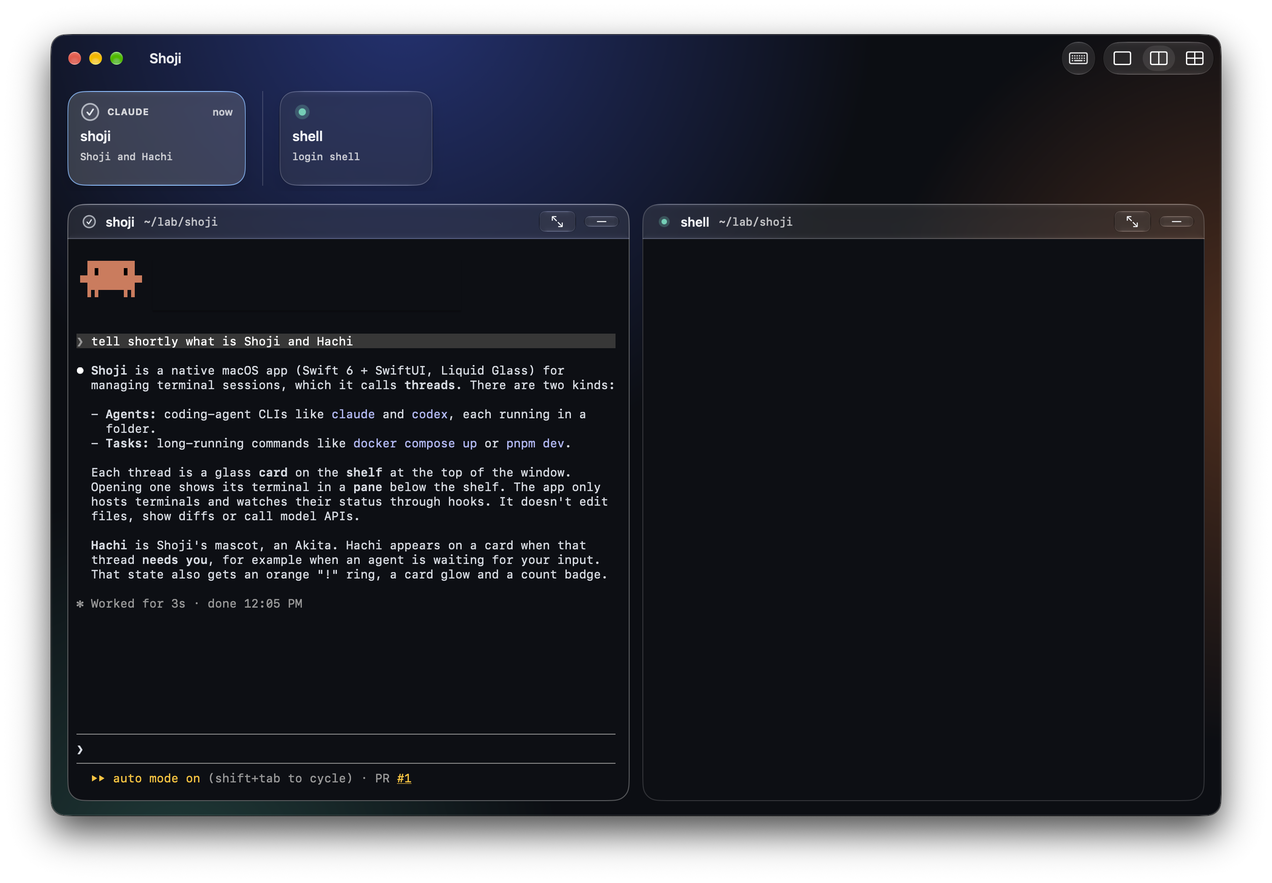
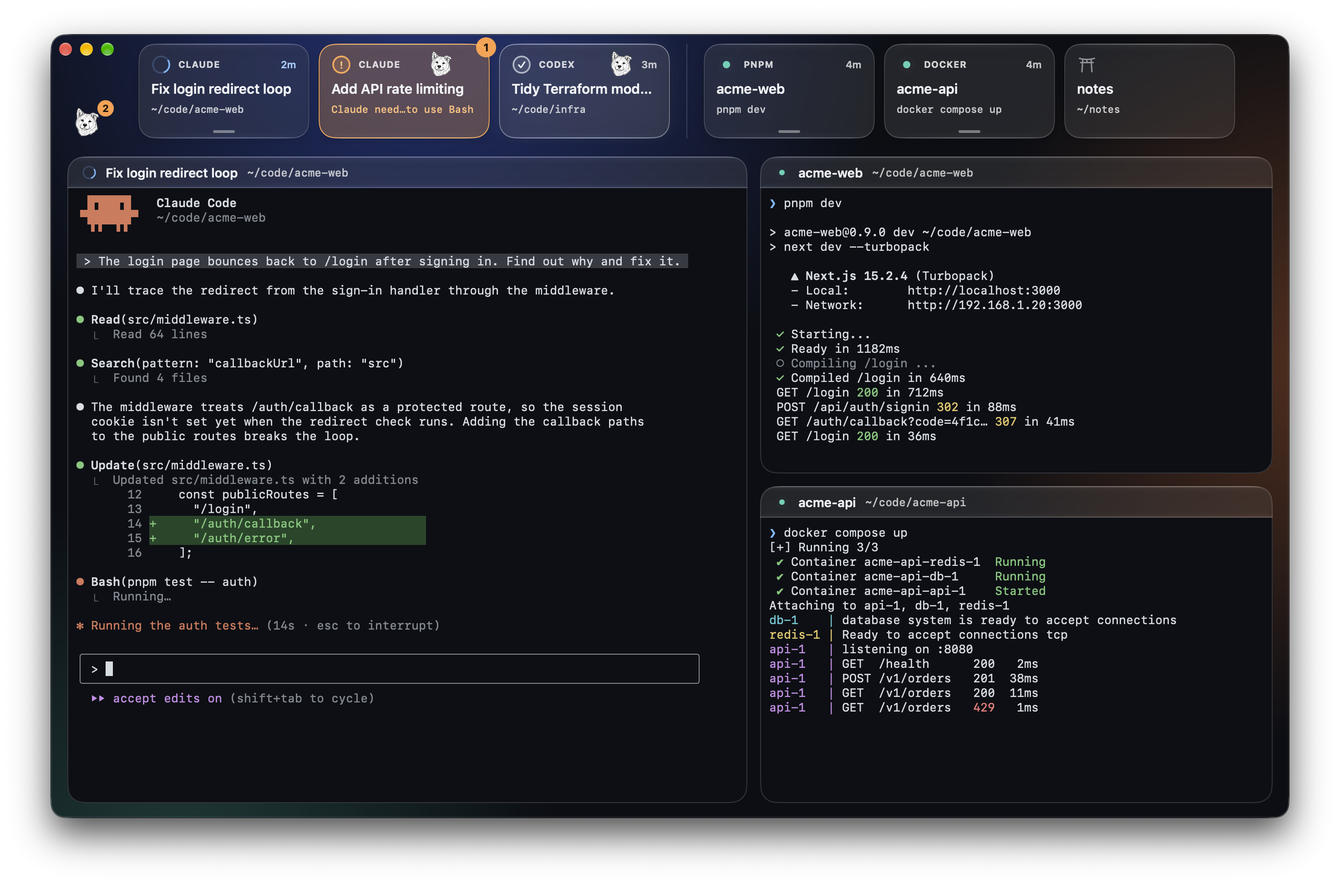
ready for v0.4

diff --git a/Sources/Shoji/Threads/ThreadStore.swift b/Sources/Shoji/Threads/ThreadStore.swift
@@ -77,6 +77,8 @@ final class ThreadStore {
             threads[index].command = line
             activity.agent = Agent(commandLine: line)
             activity.detail = nil
+            // A new program sets its own title; an earlier agent's topic must not stick to it.
+            activity.terminalTitle = nil
             // An agent waits at its own prompt until a hook says otherwise; anything else is running.
             activity.transition(to: activity.agent == nil ? .running : .idle, at: now)
         case .commandFinished(let code):
@@ -200,11 +202,13 @@ final class ThreadStore {
         arrange(groups)
     }
 
-    /// The user's name for the thread, else its folder's name. Unnamed threads in folders of the same name
-    /// are numbered oldest first ("shoji", "shoji 2"), so a `cd` into a subfolder and back changes nothing.
+    /// The user's name for the thread, else the running agent's topic, else its folder's name. Threads going by
+    /// folders of the same name are numbered oldest first ("shoji", "shoji 2"), so a `cd` into a subfolder and
+    /// back changes nothing. Cards, pane headers, menus and notifications all use it.
     func name(of thread: ShojiThread) -> String {
         if let title = thread.title { return title }
-        let twins = threads.filter { $0.title == nil && $0.folderName == thread.folderName }
+        if let topic = activities[thread.id]?.topic { return topic }
+        let twins = threads.filter { $0.title == nil && activities[$0.id]?.topic == nil && $0.folderName == thread.folderName }
         let place = twins.firstIndex { $0.id == thread.id } ?? 0
         return place == 0 ? thread.folderName : "\(thread.folderName) \(place + 1)"
     }
@@ -347,8 +351,10 @@ final class ThreadStore {
     // MARK: Panes
 
     /// Shows the thread in the pane you're in (or, with none, the one used longest ago that isn't waiting for
-    /// you), and focuses it. A thread already on screen just takes focus.
+    /// you), and focuses it. A thread already on screen just takes focus; one that's gone (a late notification
+    /// click) is ignored.
     func open(_ id: UUID) {
+        guard thread(id) != nil else { return }
         let panes = layout.panes
         let notWaiting = panes.filter { !wantsYou($0) }
         let replaced = panes.first { $0 == focusedThreadId }

diff --git a/Tests/ShojiTests/ShelfTests.swift b/Tests/ShojiTests/ShelfTests.swift
@@ -60,6 +60,32 @@ struct ShelfTests {
         #expect(store.thread(b).map(store.name) == "shoji")
     }
 
+    @Test func agentsGoByTheirTopicWhileTheyRun() {
+        let store = ThreadStore(threads: [])
+        let a = store.newThread()
+        let b = store.newThread()
+        let names = { [a, b].map { store.thread($0).map(store.name) } }
+
+        // A title that only names the agent or repeats its command isn't a topic.
+        store.send(.commandStarted("claude"), to: b)
+        store.send(.title("✳ Claude Code"), to: b)
+        store.send(.commandStarted("codex resume 019a"), to: a)
+        store.send(.title("codex resume 019a"), to: a)
+        #expect(names() == ["~", "~ 2"])
+
+        store.send(.title("✳ Fix login flow"), to: b)
+        #expect(names() == ["~", "Fix login flow"])
+        store.rename(b, to: "auth")
+        #expect(names() == ["~", "auth"])
+        store.rename(b, to: "")
+
+        // Gone with the agent; the next one starts without it.
+        store.send(.commandFinished(code: 0), to: b)
+        #expect(names() == ["~", "~ 2"])
+        store.send(.commandStarted("claude"), to: b)
+        #expect(names() == ["~", "~ 2"])
+    }
+
     @Test func renameTrimsAndEmptyFallsBackToTheFolder() {
         let store = makeStore()
         store.rename(second.id, to: "  web  ")

diff --git a/Sources/Shoji/UI/Shelf/ThreadCard.swift b/Sources/Shoji/UI/Shelf/ThreadCard.swift
@@ -89,6 +89,7 @@ struct ThreadCard: View {
         }
         .accessibilityElement(children: .ignore)
         .accessibilityLabel([name, tag?.capitalized, activity.status.label, finishedUnseen ? "not seen yet" : nil, subtitle, isOnScreen ? "in a pane" : nil].compactMap(\.self).joined(separator: ", "))
+        .help(thread.displayFolder)
     }
 
     private var tint: Color {
@@ -122,9 +123,10 @@ struct ThreadCard: View {
         return (String(executable) as NSString).lastPathComponent.uppercased()
     }
 
+    /// The folder, so you always see where a thread works; a plain command shows its command line instead (its
+    /// title is the folder already), and an agent that needs you shows its question.
     private var subtitle: String {
         if activity.status == .needsYou { return activity.detail ?? "Waiting for you" }
-        if activity.agent != nil, let title = activity.terminalTitle, !title.isEmpty { return title }
         if activity.agent == nil, let command = thread.command { return command }
         return thread.displayFolder
     }

diff --git a/Sources/Shoji/Threads/ThreadActivity.swift b/Sources/Shoji/Threads/ThreadActivity.swift
@@ -44,6 +44,13 @@ struct ThreadActivity: Equatable, Sendable {
     var terminalTitle: String?
     /// The agent CLI running in the shell right now.
     var agent: Agent?
+
+    /// What the agent says it's working on (its terminal title), unless the title only names the agent or
+    /// repeats its command line ("Claude Code", "codex resume …").
+    var topic: String? {
+        guard let agent, let title = terminalTitle, !title.isEmpty, !title.lowercased().hasPrefix(agent.rawValue) else { return nil }
+        return title
+    }
     /// The shell integration has reported in, so a thread without a command really sits at its prompt.
     var isIntegrated = false
     /// False once the shell itself has ended; Restart starts a new one.

diff --git a/Tests/ShojiTests/PaneTests.swift b/Tests/ShojiTests/PaneTests.swift
@@ -15,10 +15,12 @@ struct PaneTests {
         #expect(store.layout.panes == [ids[2], ids[1]])
         #expect(store.focusRequest == ids[2])
 
-        // Already on screen: only focus moves.
+        // Already on screen: only focus moves. A thread that's gone changes nothing.
         store.open(ids[1])
         #expect(store.layout.panes == [ids[2], ids[1]])
         #expect(store.focusRequest == ids[1])
+        store.open(UUID())
+        #expect(store.layout.panes == [ids[2], ids[1]])
     }
 
     @Test func withNoPaneFocusedOpenSparesPanesThatWantYou() {

diff --git a/Sources/Shoji/Terminal/TerminalSessions.swift b/Sources/Shoji/Terminal/TerminalSessions.swift
@@ -108,8 +108,8 @@ final class TerminalSessions {
         } else {
             popup.backend.terminate()
         }
-        // Back to the pane you were in.
-        if let id = store.focusedThreadId { store.open(id) }
+        // Back to the pane you were in, if it's still on screen.
+        if let id = store.focusedThreadId, store.layout.visibleThreadIds.contains(id) { store.open(id) }
     }
 
     private func handlePopup(_ event: TerminalEvent) {

diff --git a/PLAN.md b/PLAN.md
@@ -2,11 +2,10 @@
 
 ## Status
 
-- **Last session (pane-control, PR #3 → v0.3.0):** panes under the user's control (click goes to a thread, ⌥-click brings it to your pane, drop onto a pane, pins, layout switches that keep panes, no minimize); ⌃Tab recent-thread switcher; Codex status and resume through its own hooks; names numbered only when they'd collide; Torii idle glyph; unseen finishes get the Quiet finish halo, with Hachi behind a Threads menu toggle. Code review fixes in; tests regrouped by feature (60 in 10 suites); Release build checked locally (universal, 0.3.0).
-- **Shipped:** v0.3.0 released (DMG on GitHub) and installed in /Applications, 2026-10-29.
-- **Next up:** v0.4 on branch `reach-out` (Tasks › Next, in order): a separate Debug bundle id; quieter pane headers; split panes in any direction instead of fixed layouts; file drops onto terminals; open in Zed / VS Code with the options in the Threads menu; Dock badge, menu bar Hachi and macOS notifications for threads that want you while Shoji is in the background; the ⌘K popup terminal. Design has a handoff for the menu bar glyph and the popup frame. The branch also carries a CI fix: the PR test report names the PR's own commit, not GitHub's merge commit. The user's hands-on passes in Now continue alongside.
+- **Last session (reach-out → v0.4.0):** Debug is its own app (`fi.yan.shoji.debug`); split panes (a split tree: header Split menu, ⌘D / ⇧⌘D, cards dropped on a pane's edge, Close Pane, View › Arrange ⌥⌘1–4) replace the fixed layouts and pins; quiet pane headers (hover icons, double-click to maximize); files and text dropped on a terminal paste like Terminal, and cards have their own drag type; Open in Zed / VS Code (⇧⌘E) with options at the bottom of the Threads menu; the menu bar Hachi (design's seated dog), Dock badge and macOS notifications for threads that want you; the ⌘K quick terminal (closing keeps a running command as a thread); agents named by their topic with the folder underneath. Self-review fixes in; 69 tests in 10 suites; `MARKETING_VERSION` 0.4.0.
+- **Next up:** open the `reach-out` PR (merging publishes v0.4.0), install it, allow its notifications once (it asks as "Shoji"), and later check the permission survives an update; the hands-on list in Now; design's review of the new chrome. Then pick the next sprint from Later with the user.
 - **Blockers:** none
-- **Design (reach-out):** seated menu bar dog signed off; final sources/vectors and coding handoff ready. `docs/design/README.md` now indexes the accepted designs; obsolete frame/composites, colored reference copy, temporary metadata and empty folders removed. Native integration and pane/drop/popup review remain open; no user design choices are pending.
+- **Design (reach-out):** seated menu bar dog signed off and integrated by app; `docs/design/README.md` indexes the accepted designs. Design's review of the pane header, edge-drop preview, shelf corner and quick terminal remains open (app-to-design handoff).
 
 _Agents: update this section at the end of every session (what changed, what's next), tick or move tasks, and add new wishes to the right bucket._
 
@@ -61,6 +60,7 @@ _Agents: update this section at the end of every session (what changed, what's n
 - **A blank app icon in ⌘Tab or the Dock is a stale icon cache**, not a missing icon: macOS keys it on the bundle folder's date, which incremental builds don't touch. `touch build/Build/Products/Debug/Shoji.app` and `lsregister -f` it, then relaunch.
 - **`NSApp` is nil during `ShojiApp.init`.** Anything created there (like `Notifier`) must wait for `NSApplication.didFinishLaunchingNotification` before touching `NSApp` (Dock badge, `isActive`); touching it earlier traps at launch. The test host never builds the `Notifier`, so tests won't catch it: launch the Debug app after changing launch wiring.
 - **Notifications in the Debug build** ask for permission once as "Shoji Debug" (its own bundle id); test them with Shoji Debug in the background, since nothing is posted while it's the active app. A hook sent to `Shoji-Debug/hook.sock` with `scripts/shoji-hook` (`SHOJI_THREAD_ID`, `SHOJI_SOCKET`) raises needs-you without a real agent.
+- **Hook socket paths are capped at 104 characters** (Unix sockets). A support folder under a long path (a scratchpad, a fake home for a demo) silently leaves Shoji without hooks; keep demo homes short, e.g. `build/demo-home`.
 - **Only one Debug Shoji at a time.** A second instance (`open -n`) takes over `Shoji-Debug/hook.sock` and both write `threads.json`; quitting either removes the socket.
 - **Panes keep their identity across layouts.** `PaneGrid` places one `PaneView` per thread by frame (`PaneTiles`, computed from the split tree); it used to rebuild the split views on every layout switch, re-hosting every terminal, the likely cause of terminals going blank on a switch (confirm by hand). Keep it that way when splitting, closing panes or arranging.
 - **⌃Tab is read by a local key monitor** (`RecentSwitchKeys`), not the menu, because the switcher needs ⌃'s release (`flagsChanged`) and the keys must never reach the terminal. The menu items still show the shortcut, and a click switches at once. It stands down while a sheet or alert is up.
@@ -88,12 +88,12 @@ Chosen: **B · Card shelf + split** and **Hub view**, exported as standalone HTM
 private to Yan's account; agents can't open it, so the HTML files are what they read).
 
 **Threads screen (Option B)**
-- No toolbar row (user's call): the title bar is hidden and the shelf takes the top. Its left end holds the window buttons and Hachi's corner below them (empty; Hachi and a count while anything needs you, click opens it), its right end the layout switcher; new threads come from ⌘N and shortcuts from ⌘/ or the Help menu, so neither has a button. The window drags by its background.
+- No toolbar row (user's call): the title bar is hidden and the shelf takes the top. Its left end holds the window buttons and Hachi's corner below them (empty; Hachi and a count while anything needs you, click opens it); the shelf runs to the right edge (presets live in View › Arrange); new threads come from ⌘N and shortcuts from ⌘/ or the Help menu, so neither has a button. The window drags by its background.
 - Shelf of glass cards across the top in the user's order, split into groups by plain bars (no titles, no fixed meaning; user's call); scrolls sideways when cards overflow.
-- Card: status icon, a tag for what runs (CLAUDE / CODEX / the command's name, none at an idle prompt), name (the folder's name unless renamed; a number only when two unnamed threads would read the same, like "shoji 2", given to the newer thread, so a `cd` into a subfolder and back changes nothing), one-line status, command or folder, elapsed time.
+- Card: status icon, a tag for what runs (CLAUDE / CODEX / the command's name, none at an idle prompt), name (your rename, else a running agent's topic, else the folder's name; a number only when two threads would read the same folder name, like "shoji 2", given to the newer thread, so a `cd` into a subfolder and back changes nothing), a subtitle (the folder, or a plain command's command line, or the question while an agent needs you), elapsed time; the full folder as a tooltip.
 - Needs-you card: orange border + glow, count badge, Hachi. A finished unseen turn keeps its tick and no count, with Quiet finish ivory chrome and static halo; focusing it or returning to Shoji on it clears it. Threads › Show Hachi When an Agent Finishes (default on, remembered) controls its portrait, Hachi corner and ⌘J participation, not the completion halo.
 - Drag a card onto another to put it before or after it (by which half), joining that card's group; ⌘N plus a drag replaces any per-group + button.
-- Card context menu: Show in This Pane, Rename, Move Left / Right (the non-drag path, also for VoiceOver), Add / Remove Bar Before, Restart (shell ended), Close Thread. Later: open folder in Zed.
+- Card context menu: Show in This Pane, Rename, Move Left / Right (the non-drag path, also for VoiceOver), Add / Remove Bar Before, Open in Zed / VS Code, Restart (shell ended), Close Thread.
 - Bars are lanes for scanning (say agents left, servers right), not layout: where terminals sit on screen is the pane layout's job.
 - Split panes (v0.4, Decisions › Panes are splits): any pane splits right, left, down or up from its header's Split menu, its right-click menu, ⌘D / ⇧⌘D, or a card dropped on its edge (a highlighted half shows where it lands). A new split shows your most recent thread that isn't on screen, else a new shell. Close Pane keeps the thread on the shelf. View › Arrange (⌥⌘1–4) snaps the panes into 1 pane / 2 columns / 3 panes (one tall left, two stacked right) / 2×2 grid (2 up 1 down with three), keeping the pane you're in and filling from recent threads, then the shelf's.
 - Clicking a card goes to its thread: one already on screen just takes focus (a line under its card says so); otherwise it opens in the pane you're in (with none focused: the one used longest ago that isn't waiting for you). ⌥-click or the card menu's Show in This Pane brings it to your pane, swapping when it's on screen elsewhere (user's call: a click never rearranges panes). Dropping a card on a pane puts it there (a thread already on screen trades places). Other panes never change behind your back, so there are no pins (Decisions).
@@ -185,22 +185,13 @@ Priorities shift with the user's wishes; reorder freely. Keep items one line, sm
 - [ ] Hands-on pass on daily-driver: ⌘N opens a shell beside the focused card; `cd` updates the card; typed `claude` shows status and `/exit` returns to the prompt; quit and reopen resumes Claude and prefills a stopped `pnpm dev`; Move Left / Right and bars; ⌘W confirm only while running
 
 - [ ] Trust the installed v0.3.0's Codex hooks once in `/hooks` (installed path differs from Debug)
-- [ ] v0.4 panes by hand (Debug): hover a pane header (Split and Maximize appear plain), double-click it to maximize, the Split and right-click menus with their icons, ⌘D / ⇧⌘D, a card dragged to a pane's edge (half highlighted) and middle (swap), Close Pane, dragging nested split gaps, View › Arrange ⌥⌘1–4, ⌘W on the last pane, and the layout coming back after relaunch (first launch migrates the v0.3 layout); a screenshot dragged from Finder onto a pane running Claude Code (path pasted, image attached), text dragged in from a browser, and text dragged onto a pane no longer showing a card's edge highlight; the menu bar Hachi on a light menu bar and with its menu open, its menu (Wants You, Working, Show Shoji) jumping to threads, and the Dock badge; Open in Zed / VS Code (⇧⌘E, card and pane menus) and Threads › Open Folders In
+- [ ] v0.4 panes by hand (Debug): hover a pane header (Split and Maximize appear plain), double-click it to maximize, the Split and right-click menus with their icons, ⌘D / ⇧⌘D, a card dragged to a pane's edge (half highlighted) and middle (swap), Close Pane, dragging nested split gaps, View › Arrange ⌥⌘1–4, ⌘W on the last pane, and the layout coming back after relaunch (first launch migrates the v0.3 layout); a screenshot dragged from Finder onto a pane running Claude Code (path pasted, image attached), text dragged in from a browser, and text dragged onto a pane no longer showing a card's edge highlight; the menu bar Hachi on a light menu bar, with its menu open and with counts of 10 or more, its menu (Wants You, Working, Show Shoji) jumping to threads, and the Dock badge; Open in Zed / VS Code (⇧⌘E, card and pane menus) and Threads › Open Folders In
 - [ ] Rest of the pane-control pass (⌃Tab and Codex status already confirmed): click a card on screen (focus only, line under the card), ⌥-click and Show in This Pane (swap), drag a card onto a pane and onto another visible pane (swap), two shells in one folder ("shoji", "shoji 2"), no blank panes when switching layouts with busy terminals, Codex quit + reopen resumes; an agent finishing in another pane or with Shoji in the background calls Hachi, focusing it clears, and the Threads menu toggle turns it off; the Torii gate on idle cards; the unseen-finish halo on native glass (faint, not clipped by the shelf, still there with Hachi off, gone once seen)
 
 ### Next
-v0.4 on branch `reach-out`: Shoji reaches you while it's in the background, you reach things fast, and panes split any way you like. In order (panes first: they share the pane header and are the riskiest change, so they get the longest hands-on time):
-- [x] Debug build gets its own bundle id (`fi.yan.shoji.debug`): today it shares `fi.yan.shoji` with the installed app, so notifications, their permission and Launch Services would mix the two up. Also splits Debug's UserDefaults (zoom, Hachi toggle) from the installed app's, like its `Shoji-Debug` folder
-- [x] Quieter pane header: Split and Maximize lose their glass and show as plain icons only while the pointer is over the header; Pin is gone (Decisions); double-click the header to maximize or restore, like a Mac title bar; Restart (shell exited) becomes a plain text button. The layout switcher leaves the window; the presets move to View › Arrange (⌥⌘1–4)
-- [x] Split panes (see Decisions): a split tree instead of the four fixed layouts; split from the header's Split menu (Right, Left, Down, Up, Close Pane), ⌘D / ⇧⌘D, or by dropping a card on a pane's edge; the new pane shows the most recent hidden thread
-- [x] Drops from other apps: files dropped on a terminal paste their quoted paths and text pastes as text, like Terminal (how screenshots reach Claude Code); card drags get their own drag type, so panes stop accepting outside text as a card drop that does nothing
-- [x] Open in editor: "Open in Zed" (⇧⌘E, focused thread) in the Threads menu and the card context menu, opening the thread's current folder; Threads › Open Folders In picks Zed or VS Code (only installed ones listed; the item names the choice)
-- [x] Threads menu options section at the bottom (see Decisions): move Show Hachi When an Agent Finishes there, next to the new notifications toggle and Open Folders In
-- [x] Dock badge and menu bar Hachi: the count of threads that want you (`wantsYou`); the menu lists them (needs you first, then unseen finishes), then working ones; choosing one brings Shoji forward on that thread. No permission needed; macOS 26 lets the user hide any menu bar item in System Settings, so no toggle of our own
-- [x] macOS notifications for whatever calls Hachi (needs you, with the prompt such as "Allow Tool: …"; unseen finishes when Show Hachi When an Agent Finishes is on), only while Shoji isn't the active app; toggle Threads › Notify Me When Shoji Is Away (default on, UserDefaults like `hachiOnFinish`); clicking one opens the thread; one per thread (a newer one replaces it), removed once the thread is seen. Ask for permission on launch while the toggle is on; if it's denied in System Settings, the menu item says so. Ad-hoc signing is enough for local notifications; check the prompt in the installed app and that the permission survives the next update
-- [x] ⌘K quick terminal (see Decisions › ⌘K is a popup terminal; `TerminalSessions.Popup`, `UI/Panes/QuickTerminal.swift`)
-- [x] App: integrate the signed-off seated Hachi menu bar asset (`docs/design/menubar/`)
 - [ ] Design: review the pane header, split drop preview, shelf corner and ⌘K quick terminal, now built (app-to-design handoff)
+- [x] README screenshot retaken for v0.4 with invented demo threads; how to redo it: `docs/images/README.md`
+- [ ] Next sprint: pick from Later with the user (candidates: a Settings window for terminal font, theme and scrollback, which the Threads menu options would move into; workspaces and multiple windows; the Hub)
 
 ### Parked
 Only when the user asks for it.
@@ -218,6 +209,7 @@ Only when the user asks for it.
 - [ ] Developer ID signing and notarization (needs a paid Apple Developer account)
 
 ### Done
+- v0.4.0 reach-out: Debug app id; split panes (tree, Split menu, ⌘D / ⇧⌘D, edge drops with a half preview, Close Pane, View › Arrange) instead of fixed layouts and pins; quiet pane header; dropped files and text paste into terminals; card drag type; Open in Zed / VS Code; options in the Threads menu; menu bar Hachi, Dock badge and macOS notifications; ⌘K quick terminal; agents named by their topic
 - Design documentation audit: accepted-design index, consistent menu bar asset/provenance layout, obsolete frame/composites/reference copy removed, links and exporter checked.
 - Menu bar Hachi design: signed-off seated dog with white collar; approved PNG, path-only SVG, 16 pt vector PDF/template imageset and integration handoff. Superseded menu bar studies and previews removed.
 - Completion design: Quiet finish A + static ivory halo for unseen finishes, independent of the Hachi toggle (`docs/design/completion/`)
@@ -280,6 +272,8 @@ Run by hand with Claude Code in Shoji; re-run after every SwiftTerm bump (AGENTS
 - **Reaching the user in the background** (2026-10-29): a Dock badge and menu bar Hachi for an always-visible count, plus macOS notifications for the moment something happens. Native notifications over Zed-style popups (Zed draws its own 450×72 window at the screen's top right with View / Dismiss): they follow Focus / Do Not Disturb, stay hidden while sharing the screen by default (a prompt like "Allow Tool: rm …" shouldn't show on a call), keep a history in Notification Center, and already wear Hachi as the app icon. Own popups stay an option if banners turn out too easy to miss, or for "Allow once" later. Every channel counts the same `wantsYou` set as Hachi: Show Hachi When an Agent Finishes decides whether unseen finishes count, and Notify Me When Shoji Is Away decides whether that set also reaches macOS notifications, so two toggles cover both events.
 
 - **Options live in the Threads menu** (2026-10-29, user's call). A bottom section holds Show Hachi When an Agent Finishes, Notify Me When Shoji Is Away and Open Folders In ▸ Zed / VS Code: one click each, lighter than a Settings window for three options. They move to a Settings window (⌘,) when fonts, themes and the other Later settings arrive.
+
+- **Agents go by their topic** (2026-10-29, user's call). A thread running an agent is named by the agent's own terminal title (Claude's topic) unless you renamed it, so the card's subtitle can always show the folder it works in. A title that only names the agent or repeats its command line ("Claude Code", "codex resume …") doesn't count, and the topic goes when the agent exits or another command starts. The one exception: while an agent needs you, the subtitle shows its question. `ThreadStore.name(of:)` applies it everywhere (cards, pane headers, menus, ⌃Tab, notifications).
 
 - **No pins** (2026-10-29, user's call; v0.3 had them). A click only replaces the pane you're in (or, with none focused, the least recently used one), so other panes never change behind your back and a pin only guarded your own pane from you. Splits and Close Pane give that control directly. Old files' `pinnedThreadIds` are ignored.
 

diff --git a/README.md b/README.md
@@ -17,7 +17,7 @@ Coding agents like Claude Code and Codex sit next to long-running tasks like `pn
 
 </div>
 
-<p align="center"><img src="docs/images/shoji.png" alt="Shoji window: a shelf of glass cards on top, one agent card asking for attention with Hachi, and a Claude Code terminal below"></p>
+<p align="center"><img src="docs/images/shoji.png" alt="Shoji window: a shelf of glass cards on top (Claude working on a login fix, another Claude agent asking for permission with Hachi and an orange glow, a finished Codex turn, pnpm dev and docker compose running, an idle notes shell) and split panes below with the Claude Code session and both server logs"></p>
 
 ## Why Shoji
 
@@ -27,7 +27,7 @@ Shoji is deliberately not an editor, a diff viewer or an agent client. It never 
 
 ## Features
 
-- **Every thread is your shell.** ⌘N opens one next to the card you're on. `cd` anywhere, run `claude`, `codex` or `pnpm dev`, quit back to the prompt; the card follows along. Reopen Shoji and your threads, layout and Claude or Codex conversations come back.
+- **Every thread is your shell.** ⌘N opens one next to the card you're on. `cd` anywhere, run `claude`, `codex` or `pnpm dev`, quit back to the prompt; the card follows along. While an agent runs, its card is named after what the agent is working on, with the folder underneath. Reopen Shoji and your threads, layout and Claude or Codex conversations come back.
 - **Your shelf, your groups.** Drag cards into place and drop plain bars between them (right-click a card); groups mean whatever you want. Unnamed threads go by their folder's name, and get a number ("shoji 2") only when two would read the same.
 - **Know who needs you.** Cards show working, needs you, done, idle, running and exited, each with its own shape and label. A needs-you card turns orange, counts what's waiting and brings out Hachi, who also peeks out under the window buttons: one click opens the thread that's waiting. With Shoji in the background, a macOS notification says which thread wants you (click it to go there; **Threads › Notify Me When Shoji Is Away** turns them off), and Hachi in the menu bar and the Dock badge keep the count. An agent that finishes while you're not looking keeps its tick and gets a soft ivory glow, like an unread mark, and Hachi too unless you turn off **Threads › Show Hachi When an Agent Finishes**.
 - **Status from the CLI itself.** Claude Code reports through its own hooks, injected per launch with `--settings`, so your `~/.claude` is never touched. Shoji never scrapes terminal output.
@@ -117,9 +117,8 @@ open build/Build/Products/Debug/Shoji.app
 
 ## Roadmap
 
-- **Now:** a hands-on polish pass on everyday use
-- **Next:** a Dock badge, a menu bar Hachi and macOS notifications for threads that want you while Shoji is in the background, panes that split in any direction, dropping files onto a terminal to paste their paths, open a folder in Zed or VS Code, a ⌘K popup terminal for quick commands like `open report.html`
-- **Later:** multiple windows with a slim sidebar style, saved workspaces, a Hub view of every agent sorted by attention, "Allow once" from the Hub, settings and themes
+- **Now (v0.4):** split panes in any direction, a ⌘K quick terminal, a menu bar Hachi, Dock badge and macOS notifications for threads that want you, files dropped onto a terminal paste their paths, open a folder in Zed or VS Code
+- **Next and later:** a Settings window for terminal font, theme and scrollback; saved workspaces and multiple windows, including a slim sidebar style; a Hub view of every agent sorted by attention, with "Allow once"
 
 The live list is in [PLAN.md](PLAN.md#tasks).
 

diff --git a/docs/images/README.md b/docs/images/README.md
@@ -1,0 +1,19 @@
+# README images
+
+`shoji.png` is the app screenshot at the top of the README; `icon.png` is the app icon, rendered with `ictool`.
+
+## Retaking the screenshot
+
+Never shoot real threads: their names, folders, prompts and the machine's hostname would end up on GitHub. Run a separate Shoji Debug with an invented home instead (the v0.4 shot was made this way).
+
+1. **Demo home.** Build Debug, then make a home under `build/`, which git ignores: `build/demo-home`. Keep the path short; the hook socket path must stay under 104 characters, or Shoji runs without hooks. In it, write `Library/Application Support/Shoji-Debug/threads.json` (schema 1, invented threads whose `~/…` folders exist under the demo home, and a `layout.root` split tree; see PLAN › Thread model) and `zdot/.zshrc`.
+2. **Scenes instead of sessions.** The `.zshrc` prints `$ZDOTDIR/scenes/$SHOJI_THREAD_ID.ans` with `cat`, then runs `sleep 86400`, so no real prompt or agent ever shows. A scene starts with what Shoji reads from a shell: `ESC ]1337;ShojiEvent=cmd;<command> BEL` (the card's tag and agent) and, for an agent, a title `ESC ]0;✳ <topic> BEL` (the card's name). Then comes ANSI text (a Claude Code transcript, server logs), and `ESC [?25l` hides the cursor. Size it to the panes: about 90 columns for a wide pane.
+3. **Launch apart from the real Debug app:** `open -n -a build/Build/Products/Debug/Shoji.app --env CFFIXED_USER_HOME=$D --env HOME=$D --env ZDOTDIR=$D/zdot --args -notifyWhenAway '<false/>'`, with `D` the demo home's absolute path. `CFFIXED_USER_HOME` gives it its own support folder, threads and socket. The argument keeps notifications quiet without changing saved settings.
+4. **Statuses through hooks.** Pipe hook JSON into `scripts/shoji-hook` with `SHOJI_SOCKET` set to the demo socket and `SHOJI_THREAD_ID` to the thread:
+   - `{"hook_event_name":"UserPromptSubmit","session_id":"demo"}` makes it working;
+   - `{"hook_event_name":"Notification","notification_type":"permission_prompt","message":"…"}` makes it need you;
+   - `{"hook_event_name":"Stop"}` makes it done, and unseen while its pane isn't focused.
+
+   Space them a minute or two apart so the cards show different elapsed times.
+5. **Shoot the window** with ⌘⇧4, then Space, then a click on the window. That keeps the shadow, which suits both GitHub themes. Don't click inside first: focusing a pane changes the states.
+6. **Clean up.** Quit the demo with `kill <pid>`; `tell application id …` may pick your other Debug app. Then delete `build/demo-home`.

diff --git a/AGENTS.md b/AGENTS.md
@@ -56,7 +56,7 @@ Sources/Shoji/
 Tests/ShojiTests/           Swift Testing
 docs/design/                design reference as standalone HTML (open in a browser)
 docs/handoffs/              open handoffs between agents (local, gitignored); deleted once done
-docs/images/                README images (icon rendered with ictool, app screenshot)
+docs/images/                README images (icon rendered with ictool, app screenshot); README.md there: retaking the screenshot with invented threads
 docs/swiftterm.md           SwiftTerm API notes for the pinned version
 ```
 
